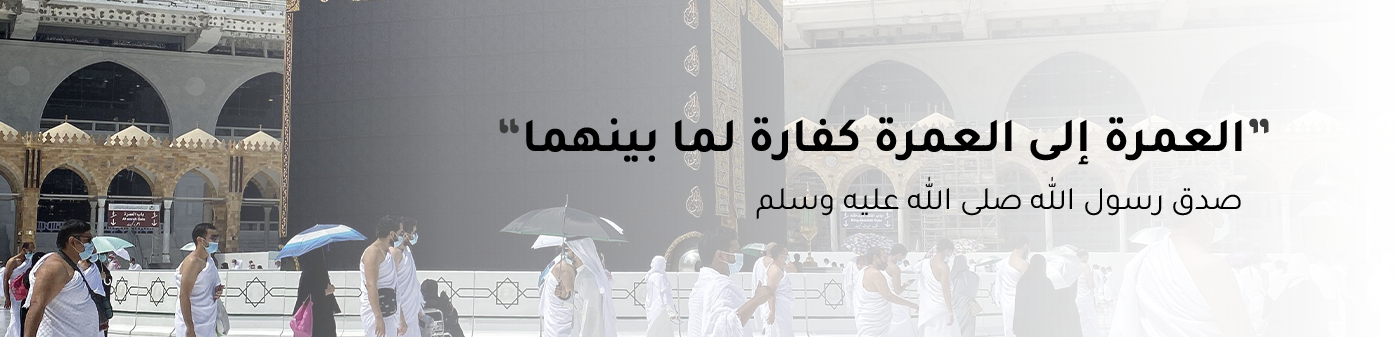
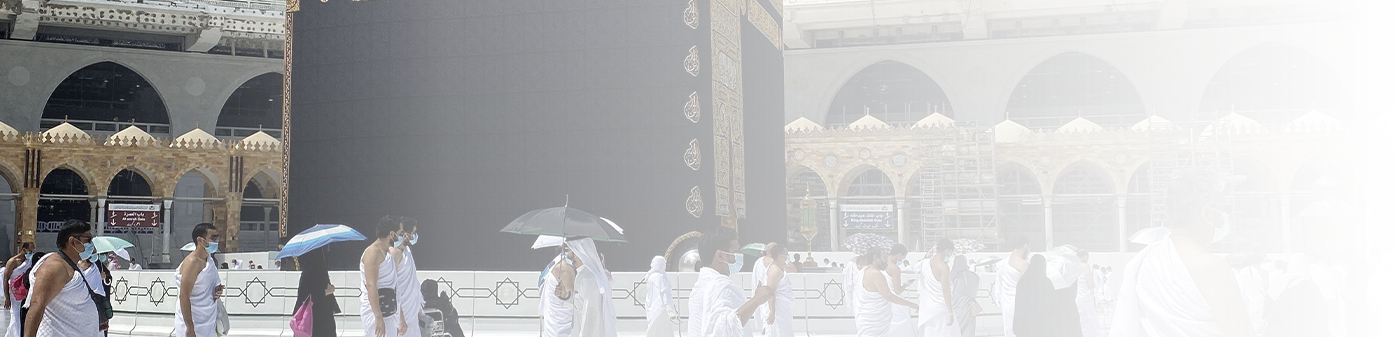
edit css

diff --git a/style/main.css b/style/main.css
@@ -222,7 +222,7 @@ header{
 html[dir="ltr"] .drop_lang {left:-7px}
 html[dir="rtl"] .drop_lang {left:-32px}
 html[dir="ltr"] .drop_user {left:-30px}
-html[dir="rtl"] .drop_user {left:-7px}
+html[dir="rtl"] .drop_user {left:-43px}
 .ul_drop{
   left: -48px;
   width: 160px;
@@ -337,6 +337,9 @@ html[dir="rtl"] .drop_user {left:-7px}
     left: 0;
   }
 
+  html[dir="rtl"] .drop_user {
+    left: -7px;
+  }
 
   .logo img{
     max-width: 85px;
@@ -646,7 +649,6 @@ html[dir="ltr"] .div_img{
   background-image: url("../images/search.png");
   background-size: cover;
   padding: 50px 0;
-  overflow-x: hidden;
 }
 .title_search{
   font-size: 26px;
@@ -678,10 +680,10 @@ html[dir="ltr"] .div_img{
   font-size: 16px;
 }
 html[dir="ltr"] .div_input i{
-  right: 45px;
+  right: 52px;
 }
 html[dir="rtl"] .div_input i{
-  left: 45px;
+  left: 52px;
 }
 .div_input .fa-angle-down{
   font-size: 14px;
@@ -792,6 +794,7 @@ html[dir="ltr"] .navbar_{
   background-color: rgb(56, 57, 57);
   width: 123px;
   height: 47px;
+  text-transform:capitalize;
   background-size: 130% auto;
   border-radius: 23.5px;
   -webkit-border-radius: 23.5px;
@@ -819,6 +822,9 @@ html[dir="ltr"] .navbar_{
     width: 85%;
     margin-bottom: 20px;
     text-align: center;
+  }
+  .bootstrap-select>select{
+    left: 0;
   }
   .input_search{
     min-width: 100%;
@@ -876,7 +882,7 @@ html[dir="ltr"] .navbar_{
   font-family: "Tajawal";
   color: rgb(56, 57, 57);
   font-weight: 700;
-  padding: 20px 0 60px;
+  padding: 20px 0 40px;
   text-transform: capitalize;
 }
 .about_us_parant .title_about{
@@ -902,7 +908,7 @@ html[dir="ltr"] .navbar_{
   -moz-border-radius: 23px;
   -ms-border-radius: 23px;
   -o-border-radius: 23px;
-  background-image: linear-gradient(to right, #cc7237 0%, #e3ba24 100%);
+  background: linear-gradient(to right, #cc7237 0%, #e3ba24 100%);
   background-size: 100% auto;
   text-transform: capitalize;
   transition: .5s;
@@ -912,8 +918,8 @@ html[dir="ltr"] .navbar_{
   -o-transition: .5s;
 }
 .btn_about:hover{
-  background-image: linear-gradient(to left, #cc7237 0%, #e3ba24 80%);
-
+  background-position: 150%; 
+  background: linear-gradient(to left, #cc7237 0%, #e3ba24 80%);
 }
 
 @media(max-width:767px){
@@ -1006,6 +1012,7 @@ html[dir="ltr"] .navbar_{
   white-space: nowrap;
   font-size: 30px;
   font-family: "Tajawal";
+  text-transform: capitalize;
   color: rgb(255, 255, 255);
   font-weight: 700;
   transform: translate(-50%, -50%);
@@ -1040,6 +1047,9 @@ html[dir="ltr"] .navbar_{
   }
   .anc_ser h5 {
     font-size: 20px;
+    white-space:pre-wrap;
+    text-align: center;
+
   }
   .title_services{
     font-size: 25px;
@@ -1052,6 +1062,41 @@ html[dir="ltr"] .navbar_{
 .banner_sm{
   margin-bottom: 130px;
 }
+.anc_banner_sm{
+  display: block;
+  position: relative;
+}
+.anc_banner_sm .banner_text{
+  position: absolute;
+  transform: translateY(-50%);
+  -webkit-transform: translateY(-50%);
+  -moz-transform: translateY(-50%);
+  -ms-transform: translateY(-50%);
+  -o-transform: translateY(-50%);
+  top: 50%;
+  right: 10%;
+  text-align: start;
+}
+html[dir="ltr"] .anc_banner_sm .banner_text{
+  left: 10%;
+}
+
+.anc_banner_sm .banner_text h4{
+  font-size: 32px;
+  font-family: "Tajawal";
+  color: rgb(0, 0, 0);
+  font-weight: 700;
+  margin-bottom: 20px;
+}
+.anc_banner_sm .banner_text h3{
+  font-size: 22px;
+  font-family: "Tajawal";
+  color: rgb(0, 0, 0);
+  font-weight: 400;
+  margin-inline-start: 18px;
+}
+
+
 .anc_banner_sm img{
   width: 100%;
   max-width: 100%;
@@ -1060,6 +1105,28 @@ html[dir="ltr"] .navbar_{
   .banner_sm {
     margin-bottom: 20px;
 }
+.anc_banner_sm .banner_text h4{
+  font-size: 25px;
+  margin-bottom: 20px;
+}
+.anc_banner_sm .banner_text h3{
+  font-size: 20px;
+  margin-inline-start: 18px;
+}
+}
+@media(max-width:500px){
+  .anc_banner_sm .banner_text h4{
+    font-size: 15px;
+    margin-bottom: 10px;
+  }
+  .anc_banner_sm .banner_text h3{
+    font-size: 12px;
+    margin-inline-start: 10px;
+  }
+  html[dir="ltr"] .anc_banner_sm .banner_text h3{
+    margin-inline-start: 0;
+  
+  }
 }
 /* ~~~~~~~~~~~~~~~end banner_sm~~~~~~~~~~~~~~~~~~~~~~ */
 
@@ -1482,7 +1549,7 @@ footer {
   display: flex;
   justify-content: center;
   align-items: center;
-  font-size: 18px;
+  font-size: 20px;
   color: rgb(97, 97, 97);
   text-transform: uppercase;
   transition: .5s;
@@ -1494,10 +1561,10 @@ footer {
 
 }
 html[dir="rtl"] .social-media .social{
-  margin-left: 20px;
+  margin-left: 30px;
 }
 html[dir="ltr"] .social-media .social{
-  margin-right: 20px;
+  margin-right: 30px;
 }
 
 footer .down_f {

diff --git a/en.html b/en.html
@@ -106,8 +106,8 @@
     <img src="images/slider.png" class="img-background">
   </a>
   <div class="text_big">
-    <h4 class="m_p_gh">Sahel for Umrah Services</h4>
-    <h3 class="m_p_gh">Easy Umrah Easy </h3>
+    <h4 class="m_p_gh">Easy for pilgrims services</h4>
+    <h3 class="m_p_gh">with Easy, Umrah is easy </h3>
   </div>
   <div class="div_img_parant">
     <div class="div_img">
@@ -215,6 +215,10 @@
 <div class="banner_sm">
   <a href="#" class="anc_banner_sm">
     <img src="images/services/8.png">
+    <div class="banner_text anc_gh">
+      <h4 class="m_p_gh">“Umrah to Umrah is an expiation for what is between them.”</h4>
+      <h3 class="m_p_gh"> The Messenger of Allah, peace be upon him</h3>
+    </div>
   </a>
 </div>
 <!-- ~~~~~~~~~~~~~~~end banner_sm~~~~~~~~~~~~~~~~~~~~~~ -->

diff --git a/index.html b/index.html
@@ -215,8 +215,12 @@
 
 <!-- ~~~~~~~~~~~~~~~start banner_sm~~~~~~~~~~~~~~~~~~~~~~ -->
 <div class="banner_sm">
-  <a href="#" class="anc_banner_sm">
+  <a href="#" class="anc_banner_sm anc_gh">
     <img src="images/services/8.png">
+    <div class="banner_text">
+      <h4 class="m_p_gh">“العمرة إلى العمرة كفارة لما بينهما”</h4>
+      <h3 class="m_p_gh">  صدق رسول الله صلى الله عليه وسلم </h3>
+    </div>
   </a>
 </div>
 <!-- ~~~~~~~~~~~~~~~end banner_sm~~~~~~~~~~~~~~~~~~~~~~ -->
